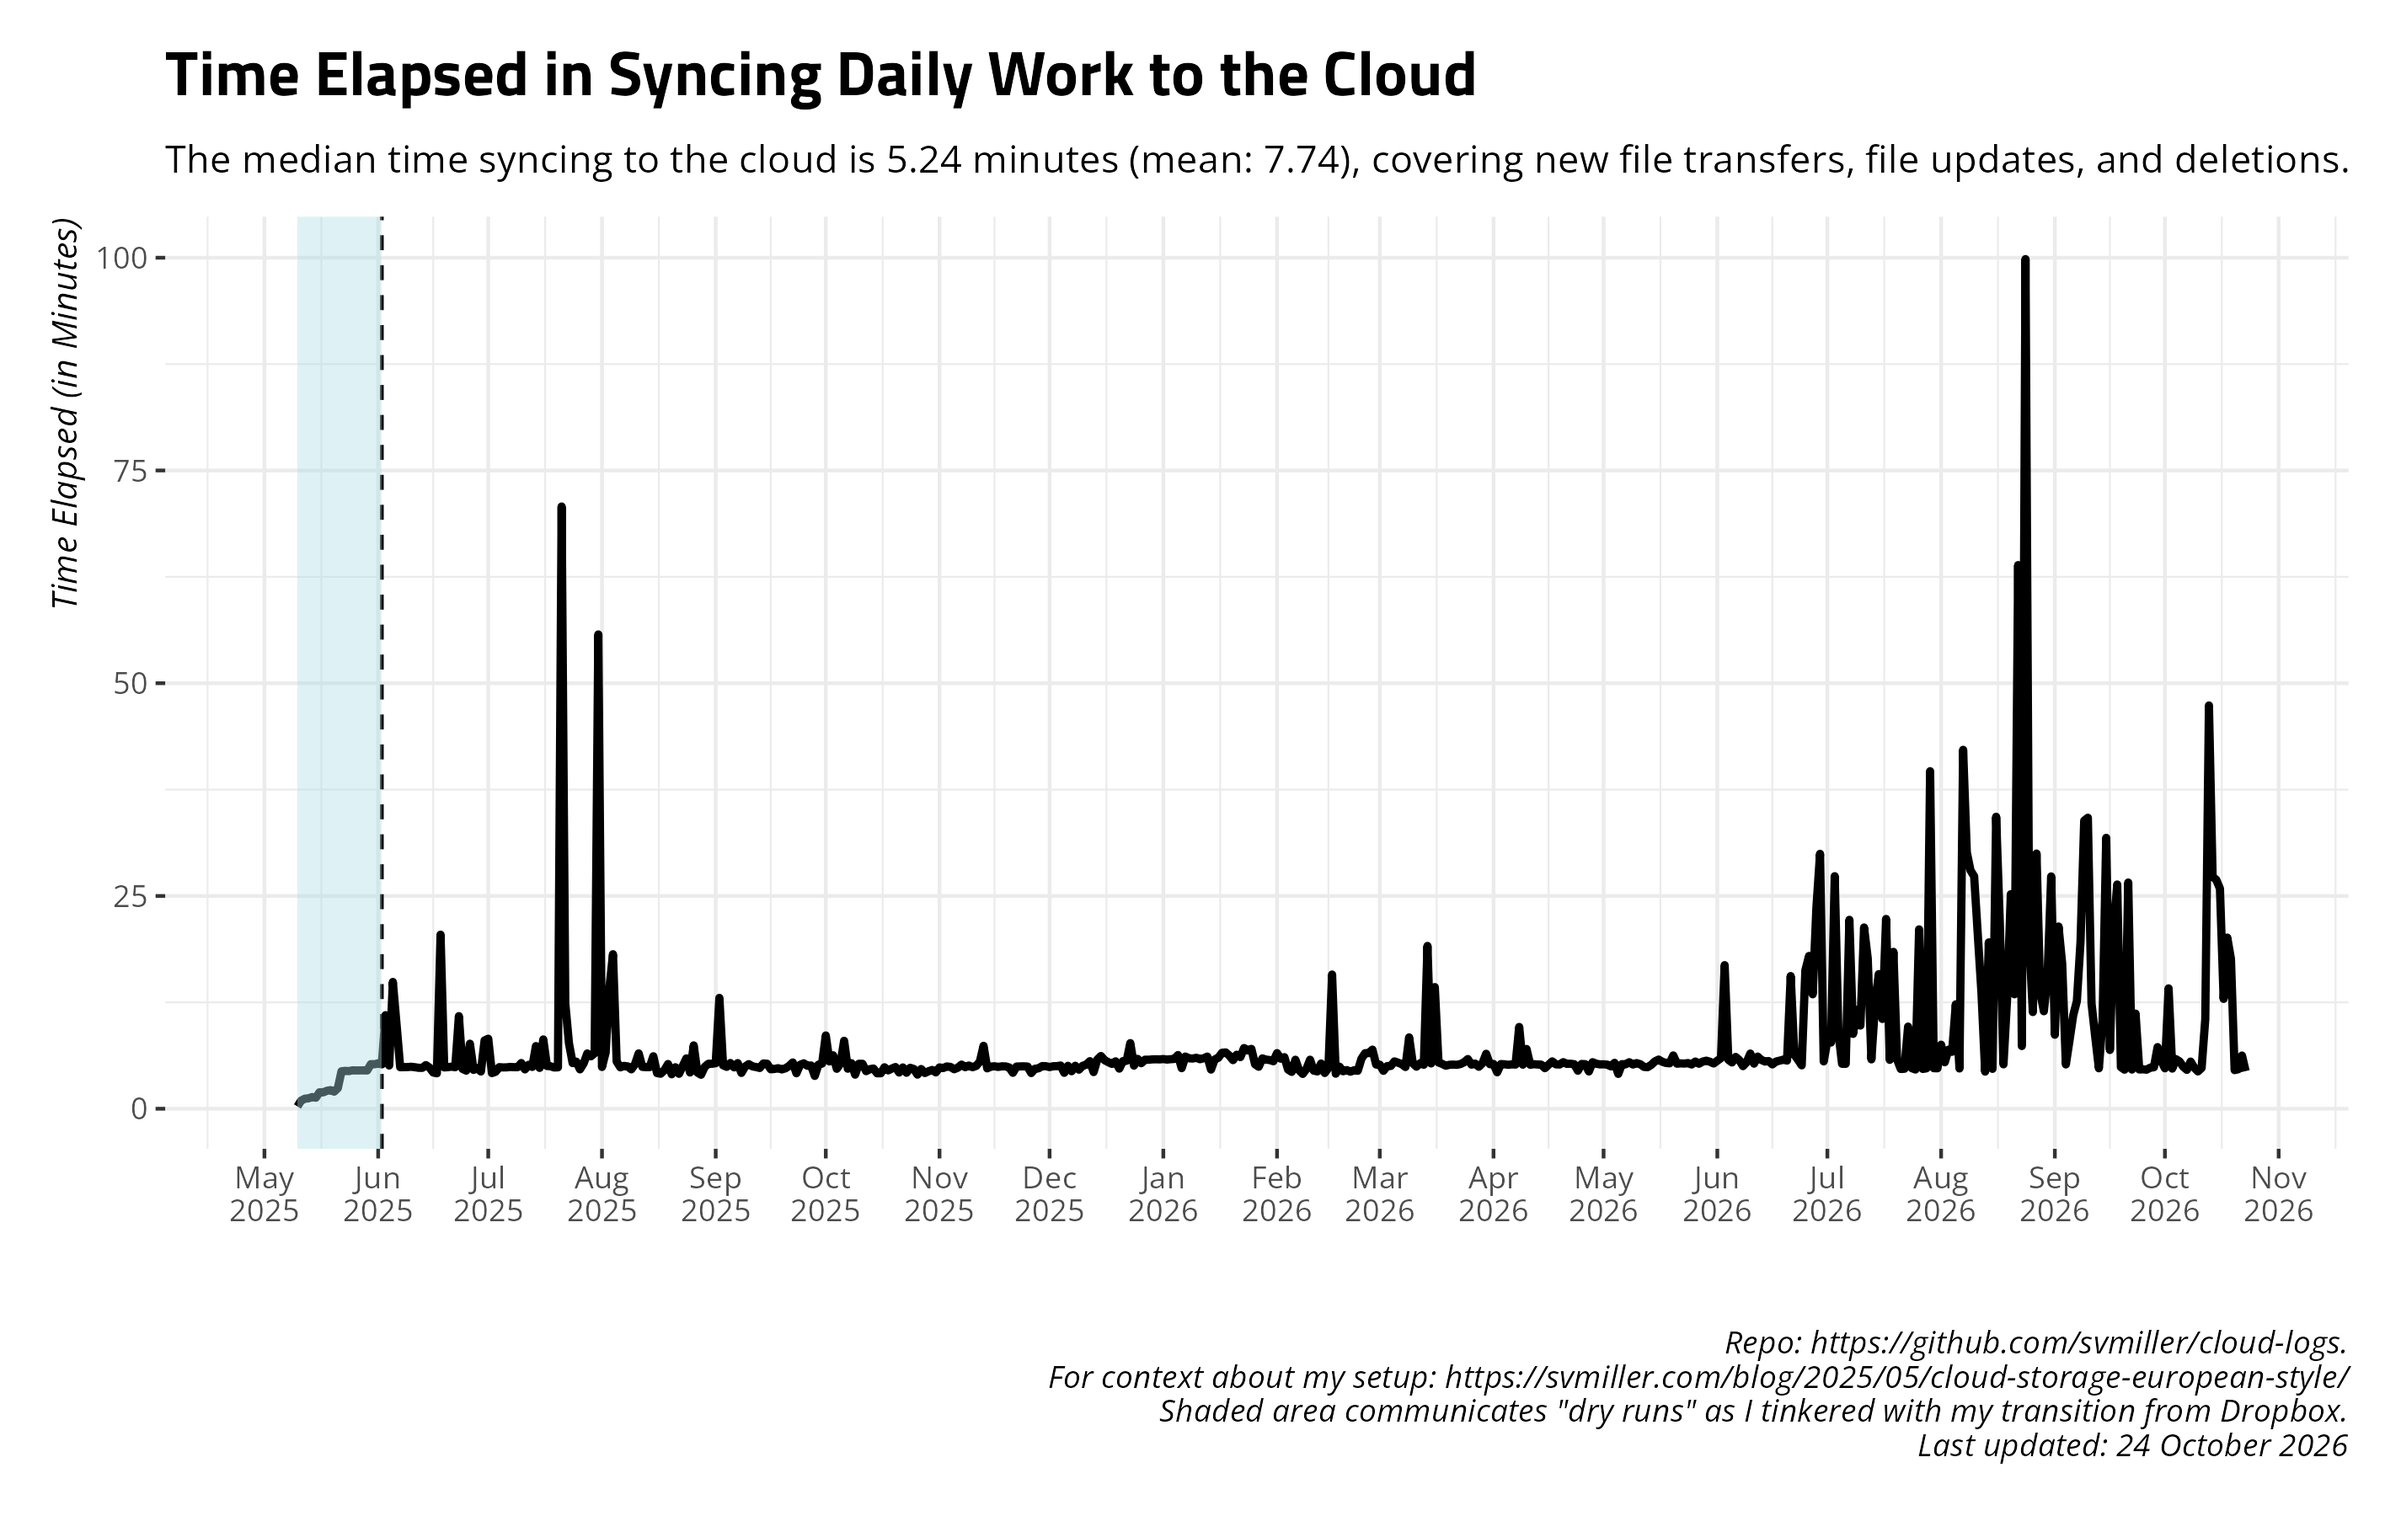
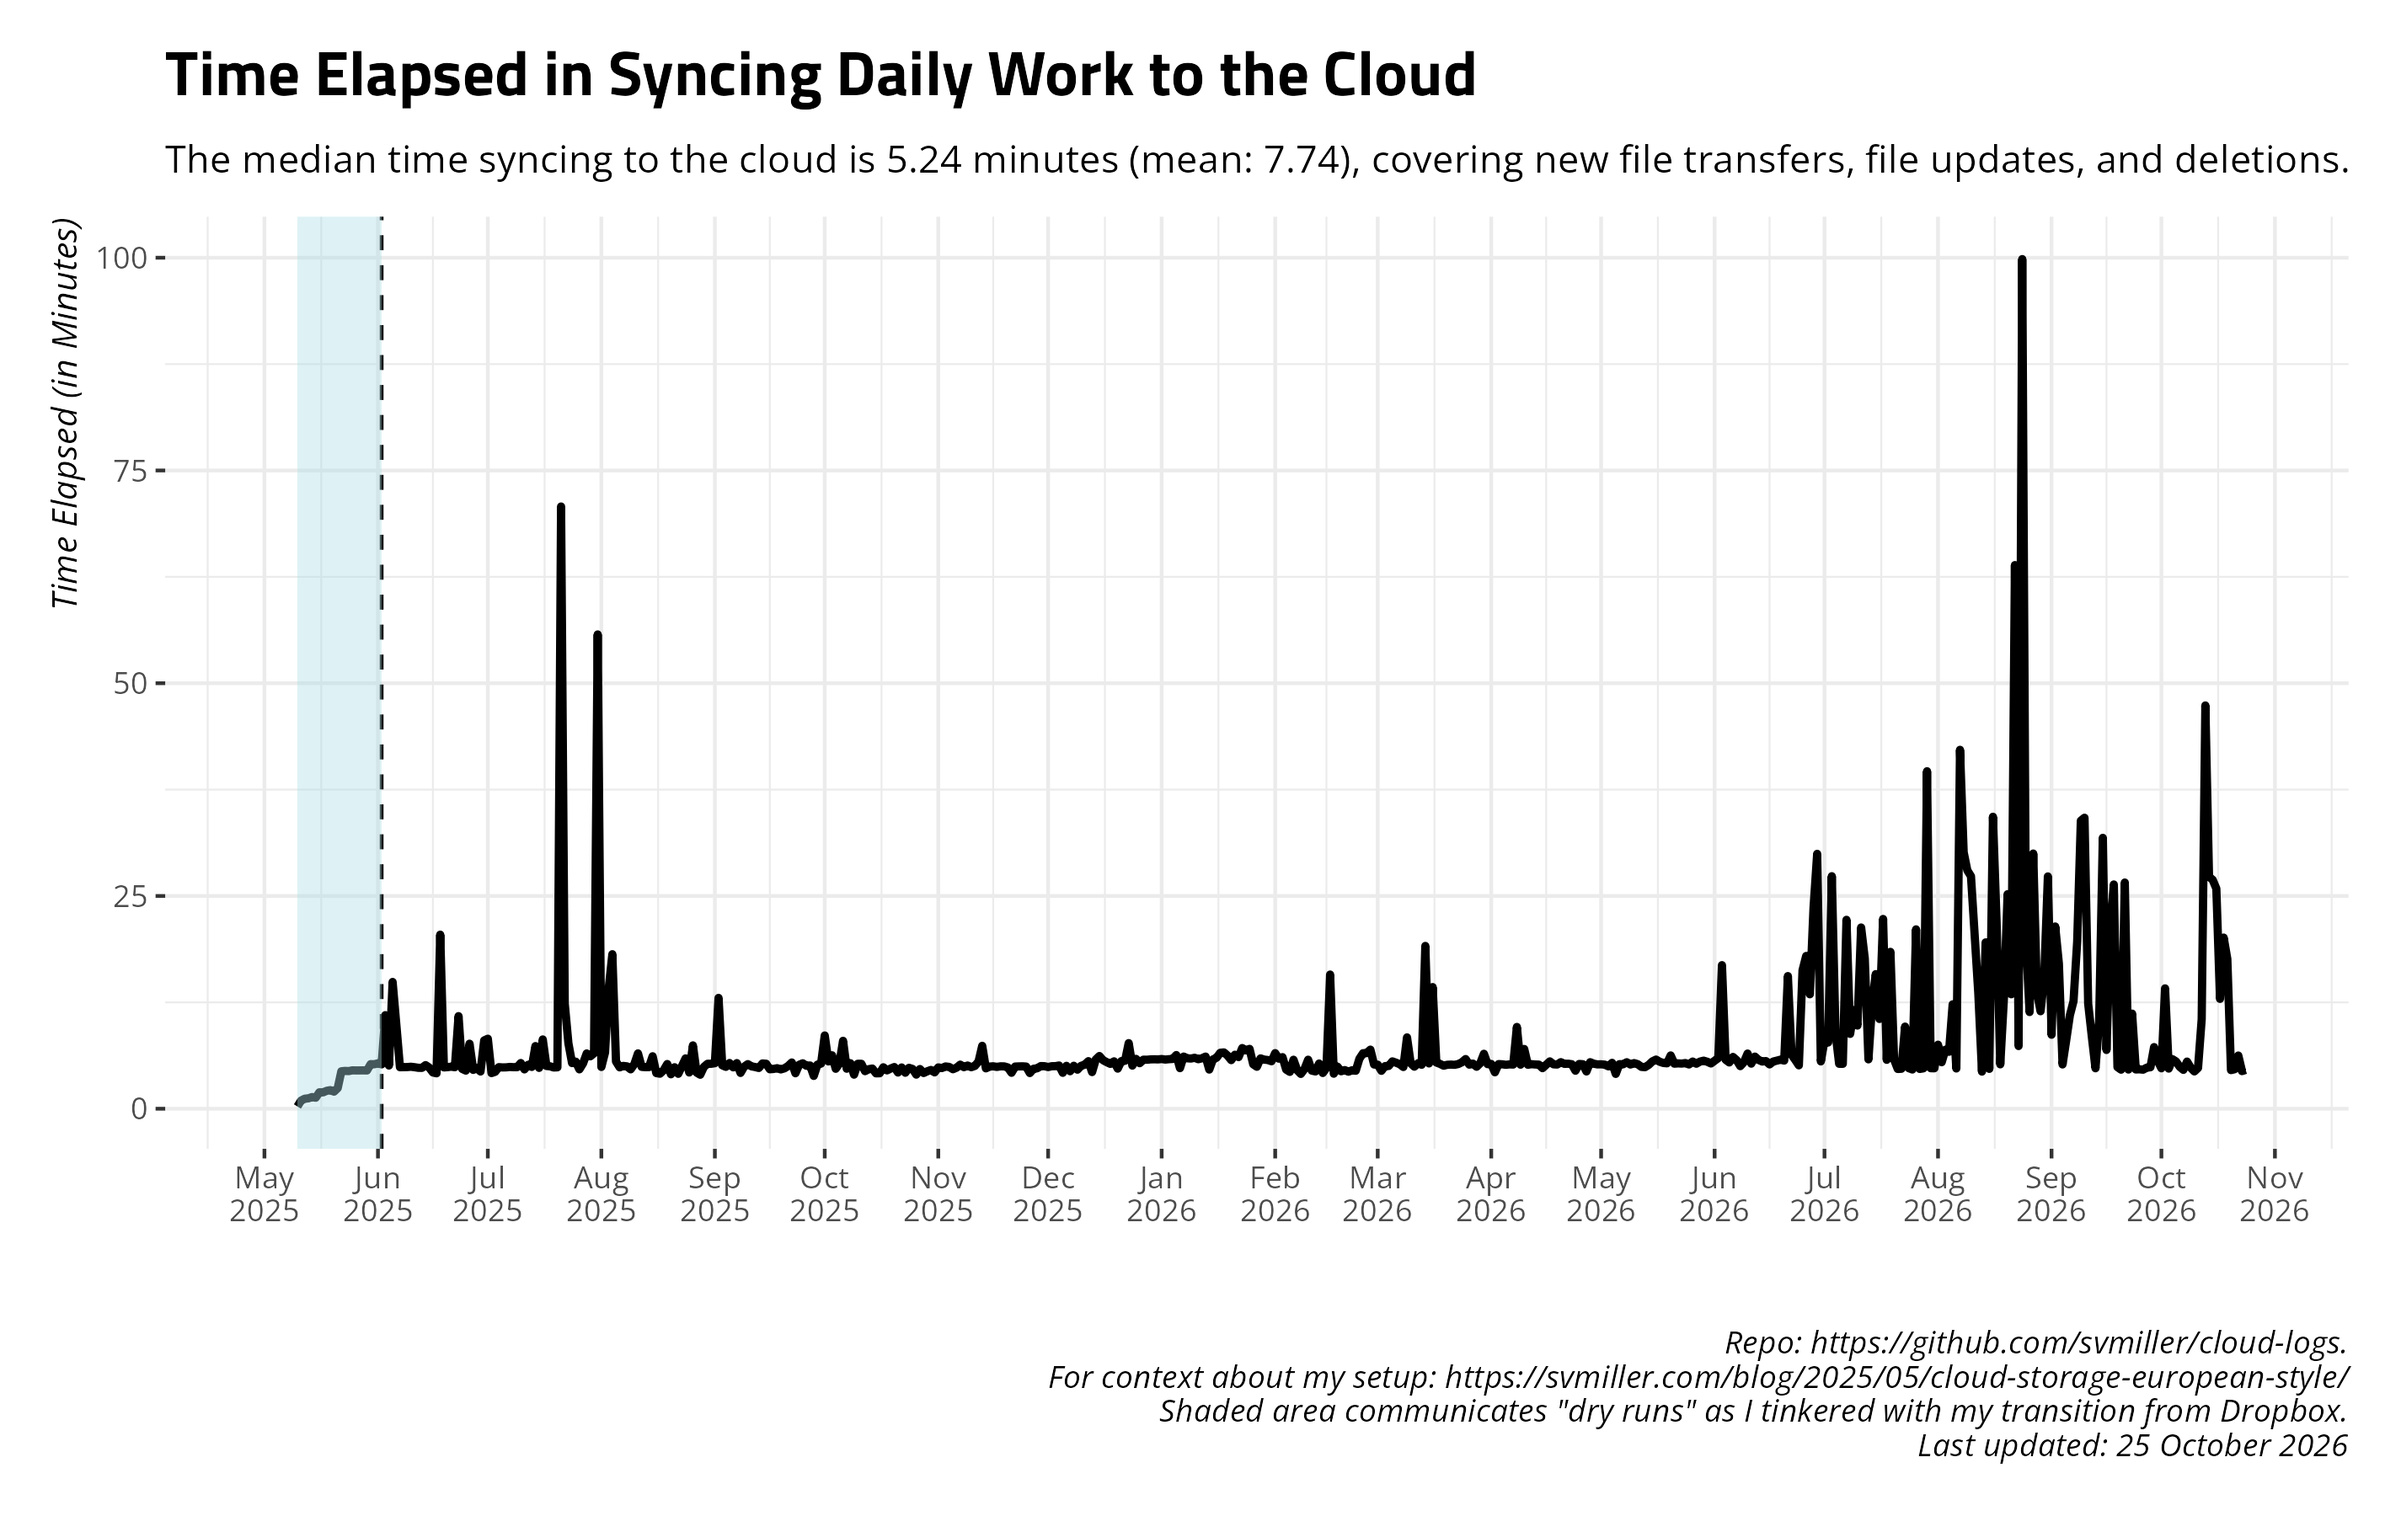
Date: 2026-10-25 09:00:36. Hi mom!

diff --git a/README.md b/README.md
@@ -27,17 +27,17 @@ and uploads to Github.
     #> # A tibble: 14 × 4
     #>    date       ftransfer stransfer   elapsed 
     #>    <date>         <dbl> <chr>       <chr>   
-    #>  1 2026-10-10         0 <NA>        4m23.0s 
-    #>  2 2026-10-11         0 <NA>        4m47.3s 
-    #>  3 2026-10-12       112 4.979 MiB   10m31.4s
-    #>  4 2026-10-13         8 124.477 MiB 47m23.4s
-    #>  5 2026-10-14         0 <NA>        27m16.0s
-    #>  6 2026-10-15         9 5.339 MiB   26m53.8s
-    #>  7 2026-10-16       147 17.869 MiB  25m51.8s
-    #>  8 2026-10-17         0 <NA>        12m54.4s
-    #>  9 2026-10-18         0 <NA>        20m6.6s 
-    #> 10 2026-10-19       108 20.905 MiB  17m36.0s
-    #> 11 2026-10-20       396 2.903 MiB   4m32.2s 
-    #> 12 2026-10-21        32 1.412 MiB   4m38.6s 
-    #> 13 2026-10-22        78 3.980 MiB   6m15.1s 
-    #> 14 2026-10-23       149 1.495 MiB   4m25.2s
+    #>  1 2026-10-11         0 <NA>        4m47.3s 
+    #>  2 2026-10-12       112 4.979 MiB   10m31.4s
+    #>  3 2026-10-13         8 124.477 MiB 47m23.4s
+    #>  4 2026-10-14         0 <NA>        27m16.0s
+    #>  5 2026-10-15         9 5.339 MiB   26m53.8s
+    #>  6 2026-10-16       147 17.869 MiB  25m51.8s
+    #>  7 2026-10-17         0 <NA>        12m54.4s
+    #>  8 2026-10-18         0 <NA>        20m6.6s 
+    #>  9 2026-10-19       108 20.905 MiB  17m36.0s
+    #> 10 2026-10-20       396 2.903 MiB   4m32.2s 
+    #> 11 2026-10-21        32 1.412 MiB   4m38.6s 
+    #> 12 2026-10-22        78 3.980 MiB   6m15.1s 
+    #> 13 2026-10-23       149 1.495 MiB   4m25.2s 
+    #> 14 2026-10-24        23 460.326 KiB 4m33.8s
